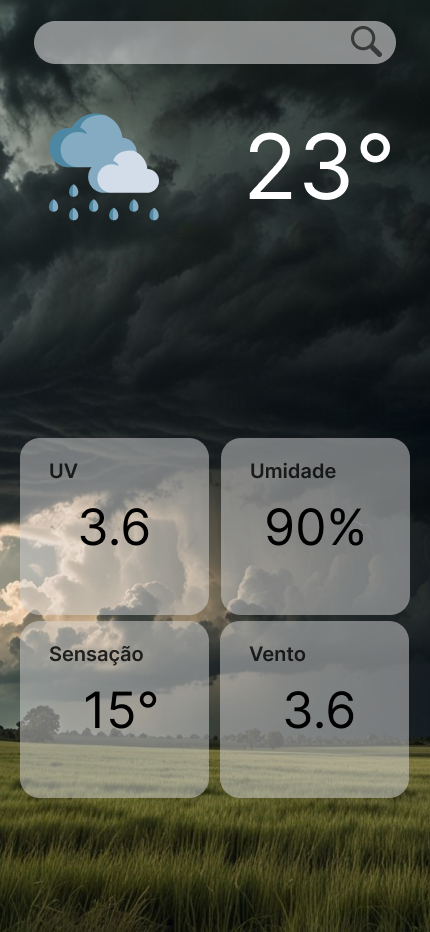
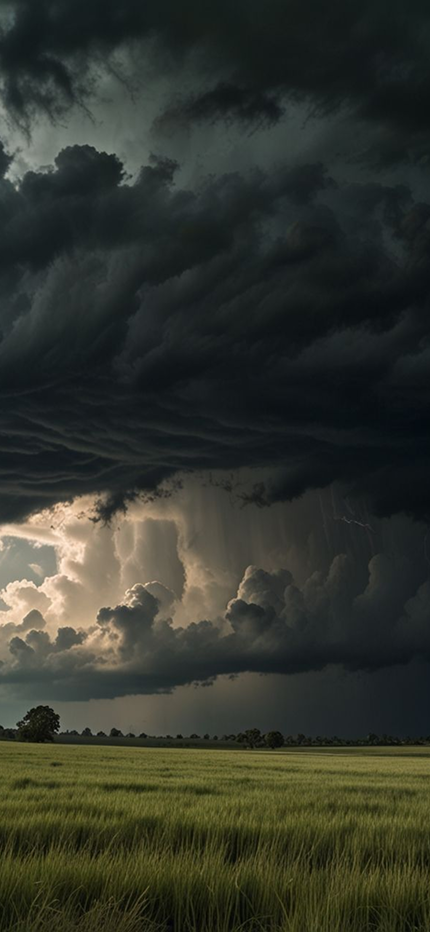
Arrumado fundo da tela

diff --git a/lib/view/home_page.dart b/lib/view/home_page.dart
@@ -12,6 +12,7 @@ class _HomePageState extends State<HomePage> {
   final WeatherService weatherService = WeatherService();
   Map<String, dynamic>? weatherData;
   String? errorMessage;
+  final TextEditingController _controller = TextEditingController();
 
   @override
   void initState() {
@@ -19,9 +20,9 @@ class _HomePageState extends State<HomePage> {
     loadWeather();
   }
 
-  Future<void> loadWeather() async {
+  Future<void> loadWeather([String city = 'Guarapuava']) async {
     try {
-      var data = await weatherService.getWeather('Sao Paulo');
+      var data = await weatherService.getWeather(city);
       setState(() {
         weatherData = data;
         errorMessage = null;
@@ -33,71 +34,153 @@ class _HomePageState extends State<HomePage> {
     }
   }
 
-  String getBackgroundImage(condition) {
-    if (weatherData == null) return 'assets/images/background/telaSol.png';
-
-
-    if (condition.contains('clear')) {
-      return 'assets/images/background/telaSol.png';
-    } else if (condition.contains('clouds')) {
-      return 'assets/images/background/telaNublado.png';
-    } else if (condition.contains('rain')) {
-      return 'assets/images/background/telaChuva.png';
-    } else if (condition.contains('thunderstorm')) {
-      return 'assets/images/background/telaTempestade.png';
-    } else {
-      return 'assets/images/background/telaSol.png';
-    }
-  }
-
   @override
   Widget build(BuildContext context) {
-    return Scaffold(
+    final condition = weatherData!['weather'][0]['main'].toString().toLowerCase();
+    String iconPath;
+    String backgroundPath;
+    if (condition.contains('clear')) {
+      iconPath = 'assets/images/icons/sol.png';
+      backgroundPath = 'assets/images/background/telaSol.png';
+    }
+    else if (condition.contains('clouds')) {
+      iconPath = 'assets/images/icons/nublado.png';
+      backgroundPath = 'assets/images/background/telaNublado.png';
+    }
+    else if (condition.contains('rain')) {
+      iconPath = 'assets/images/icons/chuva.png';
+      backgroundPath = 'assets/images/background/telaChuva.png';
+    }
+    else if (condition.contains('thunderstorm')) {
+      iconPath = 'assets/images/icons/tempestade.png';
+      backgroundPath = 'assets/images/background/telaTempestade.png';
+    }
+    else {
+      iconPath = 'assets/images/icons/sol.png';
+      backgroundPath = 'assets/images/background/telaSol.png';
+    }
 
+    return Scaffold(
+      extendBodyBehindAppBar: true,
       appBar: AppBar(
         backgroundColor: Colors.transparent,
-      ),
-
-      extendBodyBehindAppBar: true,
-      body: Container(
-        decoration: BoxDecoration(
-          image: DecorationImage(
-            image: AssetImage(getBackgroundImage(
-                weatherData != null ? weatherData!['weather'][0]['main'].toString().toLowerCase() : 'clear')),
-            fit: BoxFit.cover,
+        elevation: 0,
+        title: TextField(
+          controller: _controller,
+          decoration: InputDecoration(
+            hintText: 'Digite a cidade...',
+            hintStyle: const TextStyle(color: Colors.black54),
+            filled: true,
+            fillColor: Colors.white.withOpacity(0.6),
+            border: OutlineInputBorder(
+              borderRadius: BorderRadius.circular(30),
+              borderSide: BorderSide.none,
+            ),
+            suffixIcon: const Icon(Icons.search, color: Colors.black),
           ),
+          textInputAction: TextInputAction.search,
+          onSubmitted: (value) => loadWeather(value),
         ),
-
-        child: Center(
-          child: errorMessage != null ? Text(
-                  errorMessage!,
-                  style: const TextStyle(color: Colors.red, fontSize: 18),
-                ): weatherData == null ? const CircularProgressIndicator()
-                  : Column(
+      ),
+      body: weatherData == null
+          ? const Center(child: CircularProgressIndicator())
+          : Container(
+              decoration: BoxDecoration(
+                image: DecorationImage(
+                  image: AssetImage(backgroundPath),
+                  fit: BoxFit.cover,
+                ),
+              ),
+              child: SafeArea(
+                child: Column(
+                  children: [
+                    const SizedBox(height: 40),
+                    Row(
                       mainAxisAlignment: MainAxisAlignment.center,
                       children: [
-                        Text(
-                          '${weatherData!['main']['temp']}°C',
-                          style: const TextStyle(
-                            fontSize: 48,
-                            color: Colors.white,
-                          ),
+                        Image.asset(
+                          iconPath,
+                          width: 110,
+                          height: 110,
                         ),
+                        const SizedBox(width: 80),
                         Text(
-                          weatherData!['weather'][0]['description'],
-                          style: const TextStyle(
-                            fontSize: 24,
-                            color: Colors.white,
-                          ),
-                        ),
-                        Text('Umidade: ${weatherData!['main']['humidity']}%',
-                          style: const TextStyle(
-                            fontSize: 24,
+                          '${weatherData!['main']['temp'].toInt()}°',
+                          style: TextStyle(
+                            fontSize: 90,
+                            fontWeight: FontWeight.bold,
                             color: Colors.white,
                           ),
                         ),
                       ],
                     ),
+                    const SizedBox(height: 30),
+
+                    // Grid com 4 cards
+                    Expanded(
+                      child: GridView.count(
+                        crossAxisCount: 2,
+                        padding: const EdgeInsets.symmetric(horizontal: 20, vertical: 10),
+                        crossAxisSpacing: 15,
+                        mainAxisSpacing: 15,
+                        children: [
+                          _infoCard(
+                            'Sensação',
+                            '${weatherData!['main']['feels_like'].toInt()}°',
+                            Icons.thermostat,
+                          ),
+                          _infoCard(
+                            'Umidade',
+                            '${weatherData!['main']['humidity']}%',
+                            Icons.water_drop,
+                          ),
+                          _infoCard(
+                            'Vento',
+                            '${weatherData!['wind']['speed']} m/s',
+                            Icons.air,
+                          ),
+                          _infoCard(
+                            'Pressão',
+                            '${weatherData!['main']['pressure']} hPa',
+                            Icons.speed,
+                          ),
+                        ],
+                      ),
+                    ),
+                  ],
+                ),
+              ),
+            ),
+    );
+  }
+
+  Widget _infoCard(String label, String value, IconData icon) {
+    return Container(
+      decoration: BoxDecoration(
+        color: Colors.white.withOpacity(0.7),
+        borderRadius: BorderRadius.circular(16),
+      ),
+      child: Padding(
+        padding: const EdgeInsets.all(12),
+        child: Column(
+          mainAxisAlignment: MainAxisAlignment.center,
+          children: [
+            Icon(icon, size: 36, color: Colors.black87),
+            const SizedBox(height: 8),
+            Text(
+              label,
+              style: const TextStyle(fontSize: 16, color: Colors.black87),
+            ),
+            const SizedBox(height: 4),
+            Text(
+              value,
+              style: const TextStyle(
+                fontSize: 22,
+                fontWeight: FontWeight.bold,
+                color: Colors.black87,
+              ),
+            ),
+          ],
         ),
       ),
     );
